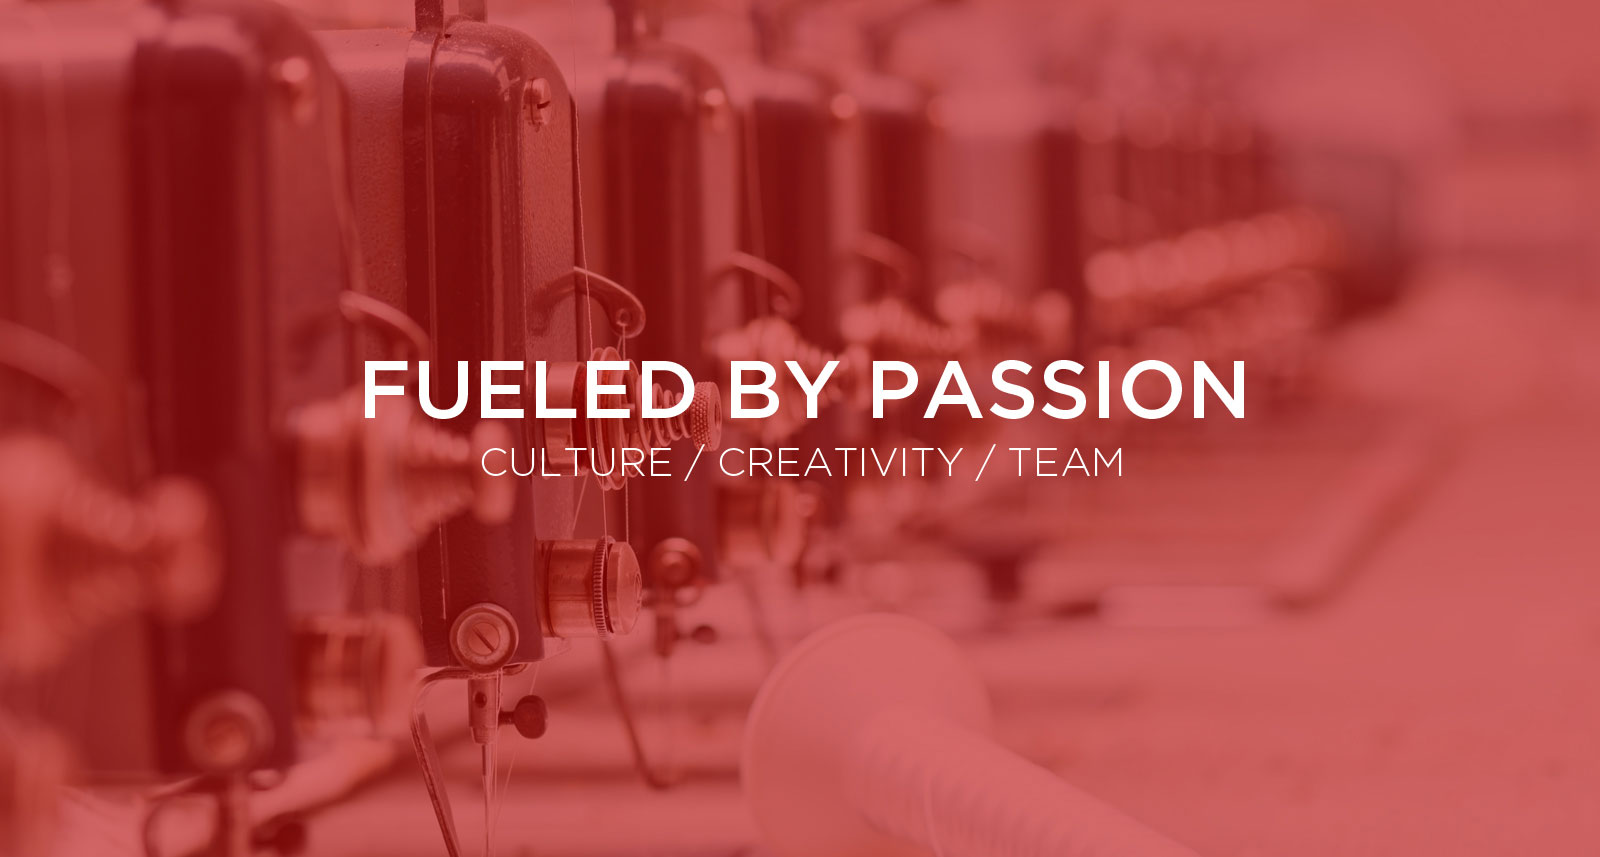
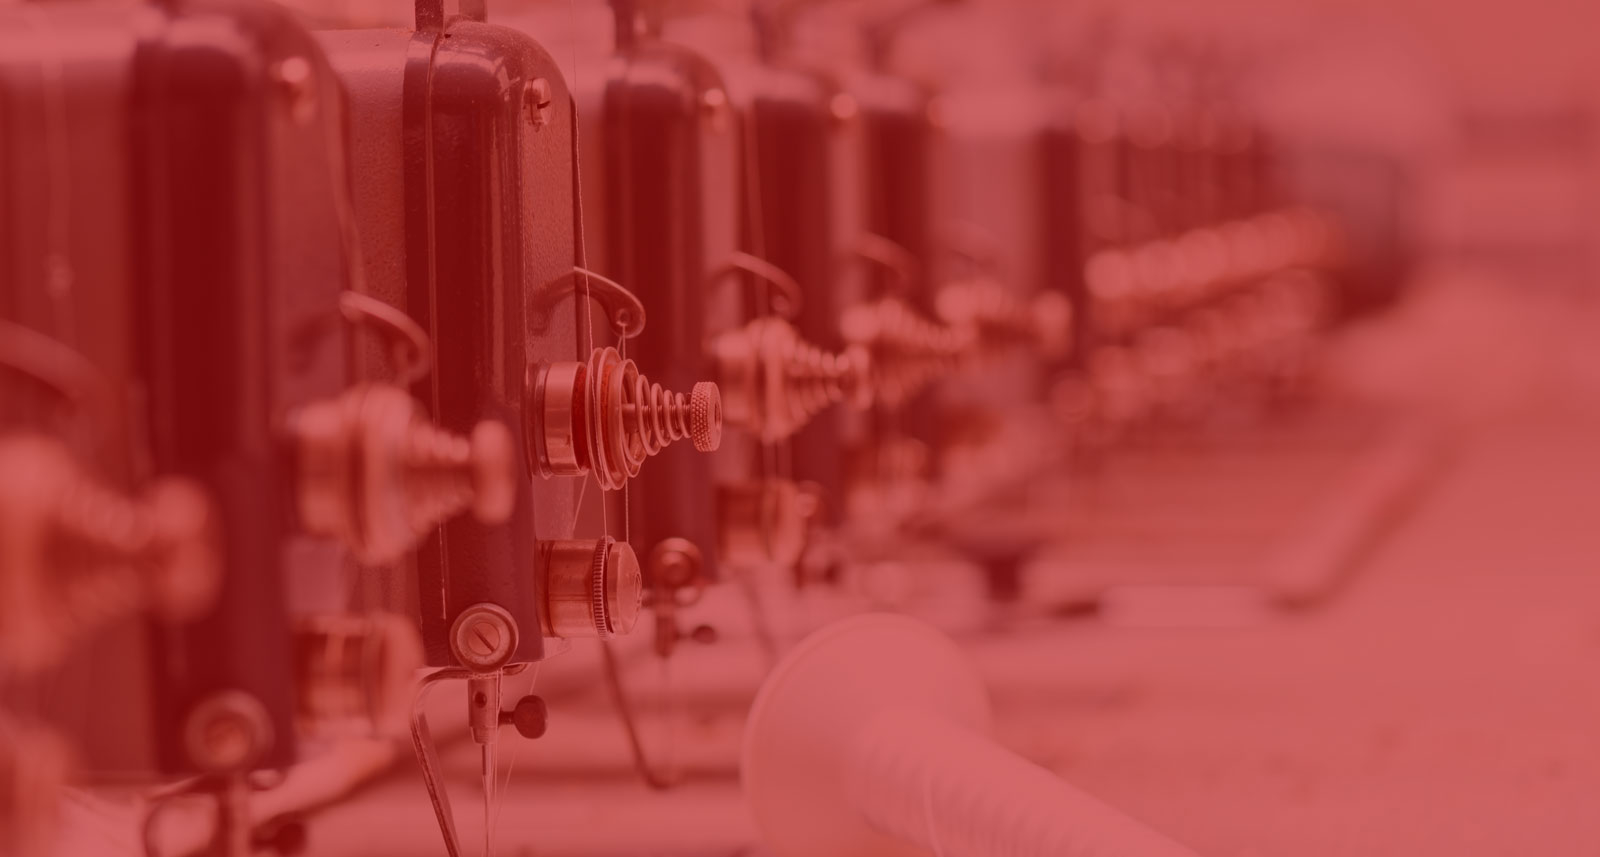
add story page scroll title

Changed region(s): [[0.2188, 0.4247, 0.7812, 0.4854], [0.3125, 0.5158, 0.7188, 0.5764]]

diff --git a/style.css b/style.css
@@ -1295,9 +1295,11 @@ section.module_brand.content_brand {
   background-color: #fff;
   color: #000;
   margin-bottom: 0;
+  position: relative;
+  z-index: 200;
 }
 
-/* line 146, sass/_partials/_parallax.scss */
+/* line 147, sass/_partials/_parallax.scss */
 div.brand-content-wrapper {
   height: 200px;
   max-width: 68em;
@@ -1312,17 +1314,17 @@ div.brand-content-wrapper:after {
   clear: both;
 }
 
-/* line 151, sass/_partials/_parallax.scss */
+/* line 152, sass/_partials/_parallax.scss */
 div.brand-content {
   display: table-cell;
   vertical-align: middle;
 }
-/* line 154, sass/_partials/_parallax.scss */
+/* line 155, sass/_partials/_parallax.scss */
 div.brand-content p {
   color: #666;
 }
 
-/* line 158, sass/_partials/_parallax.scss */
+/* line 159, sass/_partials/_parallax.scss */
 section.module.parallax_brand {
   height: 600px;
   background-position: 50% 50%;
@@ -1334,34 +1336,34 @@ section.module.parallax_brand {
   background-size: cover;
 }
 
-/* line 170, sass/_partials/_parallax.scss */
+/* line 171, sass/_partials/_parallax.scss */
 div.abbot_top p {
   margin-bottom: 0;
   padding: 0.5em 2.0em 0.5em;
 }
-/* line 174, sass/_partials/_parallax.scss */
+/* line 175, sass/_partials/_parallax.scss */
 div.abbot_top p:last-child {
   padding: 0.5em 2.0em 2.0em;
 }
 
 @media all and (min-width: 600px) {
-  /* line 180, sass/_partials/_parallax.scss */
+  /* line 181, sass/_partials/_parallax.scss */
   section.module h2 {
     font-size: 42px;
   }
 
-  /* line 183, sass/_partials/_parallax.scss */
+  /* line 184, sass/_partials/_parallax.scss */
   section.module p {
     font-size: 20px;
   }
 
-  /* line 186, sass/_partials/_parallax.scss */
+  /* line 187, sass/_partials/_parallax.scss */
   section.module.parallax h1 {
     font-size: 96px;
   }
 }
 @media all and (min-width: 960px) {
-  /* line 191, sass/_partials/_parallax.scss */
+  /* line 192, sass/_partials/_parallax.scss */
   section.module.parallax h1 {
     font-size: 160px;
   }
@@ -1427,25 +1429,40 @@ header {
 
 /* line 31, sass/_partials/_common.scss */
 .empty_container.story {
+  position: fixed;
+  z-index: 100;
   width: 100%;
   max-height: 500px;
 }
-/* line 35, sass/_partials/_common.scss */
-.empty_container.story h2 {
-  display: block;
-  position: fixed;
-  width: 100%;
-  text-align: center;
-  color: #999;
+/* line 36, sass/_partials/_common.scss */
+.empty_container.story img {
   margin-top: 10%;
 }
+@media screen and (max-width: 979px) {
+  /* line 36, sass/_partials/_common.scss */
+  .empty_container.story img {
+    margin-top: 20%;
+  }
+}
+@media screen and (max-width: 767px) {
+  /* line 36, sass/_partials/_common.scss */
+  .empty_container.story img {
+    margin-top: 30%;
+  }
+}
+@media screen and (max-width: 468px) {
+  /* line 36, sass/_partials/_common.scss */
+  .empty_container.story img {
+    margin-top: 40%;
+  }
+}
 
-/* line 46, sass/_partials/_common.scss */
+/* line 51, sass/_partials/_common.scss */
 svg#Layer_1 path {
   fill: #666;
 }
 
-/* line 52, sass/_partials/_common.scss */
+/* line 57, sass/_partials/_common.scss */
 svg#brander path {
   fill: #666;
 }

diff --git a/sass/_partials/_common.scss b/sass/_partials/_common.scss
@@ -29,16 +29,21 @@
 }
 
 .empty_container.story{
-	
+	position:fixed;
+	z-index:100;
 	width:100%;
 	max-height:500px;
-	h2{
-		display: block;
-		position:fixed;
-		width:100%;
-		text-align: center;
-		color:#999;
+	img{
 		margin-top: 10%;
+		@include media ($tablet){
+			margin-top:20%;
+		}
+		@include media ($mobile){
+			margin-top:30%;
+		}
+		@include media ($phone){
+			margin-top:40%;
+		}
 	}
 }
 

diff --git a/sass/_partials/_parallax.scss b/sass/_partials/_parallax.scss
@@ -140,7 +140,8 @@ section.module_brand.content_brand {
   background-color: #fff;
   color:#000;
   margin-bottom: 0;
-
+  position: relative;
+  z-index: 200;
 }
 
 div.brand-content-wrapper{

diff --git a/story_page.php b/story_page.php
@@ -11,13 +11,13 @@ get_header(); ?>
 	<main>
 		      
 	      <section class="module parallax_brand parallax-story">
-	        <div class="empty_container">
-	          
+	        <div class="empty_container story">
+	          <img src="<?php bloginfo('template_directory'); ?>/images/fueled_type.png" />
 	        </div>
 	      </section>
 
 	      <section class="module_brand content_brand">
-	        <div class="container abbot_top">
+	        <div class="container">
 	        	<div class="brand-content-wrapper">
 	        		<div class="brand-content">
 			          <p> <b>Boulevard Brands </b>is a premier fashion brand management company with a mission to own, manage and license aspirational, lifestyle apparel brands. Founded by Daniel Guez, a 17-year veteran entrepreneur with a proven record of achievement in the fashion industry, Boulevard Brands’ strategy is to take their lifestyle brands and maximize their potential and consumer reach while remaining true to its DNA roots of creativity and originality. Boulevard Brands leverages the expertise of seasoned professionals ranging from design, product development, branding and licensing. The skill and knowledge of these individuals act as a catalyst to increase value through innovation and expansion of the company’s primary business model.</p>
@@ -27,7 +27,7 @@ get_header(); ?>
 	      </section>
 
 	      <section class="module_brand content_brand">
-			<div class="container abbot_top">
+			<div class="container">
 				<img src="<?php bloginfo('template_directory'); ?>/images/storypage_bottom.jpg" />
 			</div>
 		</section>

diff --git a/dylan_george_page.php b/dylan_george_page.php
@@ -14,7 +14,7 @@ get_header(); ?>
 				<img src="<?php bloginfo('template_directory'); ?>/images/brand/dg_static.jpg" /></a>
 				<div class="brand-content-wrapper">
 					<div class="brand-content">
-						<p>Inspired by the culture of an active lifestyle and the challenge to stay stylish and fit, Caelum blurs the lines that separate daily life, health, style and fitness. Every piece in the collection has a cool, edgey and modern look that can seamlessly be worn at the studio or gym, on the go, and dressed up for a night out.</p>
+						<!-- <p>Inspired by the culture of an active lifestyle and the challenge to stay stylish and fit, Caelum blurs the lines that separate daily life, health, style and fitness. Every piece in the collection has a cool, edgey and modern look that can seamlessly be worn at the studio or gym, on the go, and dressed up for a night out.</p> -->
 	         	 	</div>
 	         	 </div>
 			</div>
@@ -30,7 +30,7 @@ get_header(); ?>
 	        <div class="container abbot_top">
 	        	<div class="brand-content-wrapper">
 	        		<div class="brand-content">
-			          <p> Technical activewear fabrics, silky soft knits, and explosions of color, embody the spirit of an energetic lifestyle brand that will inspire everyone to live their healthiest life.</p>
+			          <!-- <p> Technical activewear fabrics, silky soft knits, and explosions of color, embody the spirit of an energetic lifestyle brand that will inspire everyone to live their healthiest life.</p> -->
 	         		</div>
 	          </div>
 	          <div class="brand-info-container">

diff --git a/brand-overview.php b/brand-overview.php
@@ -68,12 +68,12 @@ get_header(); ?>
 		  </div>
 		</div>	
 
-<!-- 		<div class="hover-tile-outer dg_overview">
-			<a href="<?//php echo get_page_link( get_page_by_title( "dylangeorge" )->ID ); ?>"></a>
+		<div class="hover-tile-outer dg_overview">
+			<a href="<?php echo get_page_link( get_page_by_title( "dylangeorge" )->ID ); ?>"></a>
 		  <div class="hover-tile-container">
 		    <div class="hover-tile hover-tile-visible">
 		    	<div class="hover-logo">
-			      <img src="<?//php bloginfo('template_directory'); ?>/images/brand/dg_brand_scroll.svg" class="" />
+			      <img src="<?php bloginfo('template_directory'); ?>/images/brand/dg_brand_scroll.svg" class="" />
 			    </div>
 		    </div>
 		    <div class="hover-tile hover-tile-hidden">
@@ -81,7 +81,7 @@ get_header(); ?>
 		      <p>Lorem ipsum dolor sit amet, consectetur adipisicing elit. Unde, hic, dolore, labore,provident eligendi fugiat ad exercitationem.</p>
 		    </div>
 		  </div>
-		</div> -->
+		</div>
 
 		<div class="hover-tile-outer blvd_overview">
 			<a href="<?php bloginfo('url');?>"></a>

diff --git a/footer.php b/footer.php
@@ -23,22 +23,7 @@
 			    </ul>
 
 			    <div class="footer-secondary-links">
-			      <ul>
-			        <li><a href="javascript:void(0)">Terms and Conditions</a></li>
-			        <li><a href="javascript:void(0)">Privacy Policy</a></li>
-			      </ul>
-
-			      <ul class="footer-social">
-			        <li><a href="javascript:void(0)">
-			          <img src="https://raw.githubusercontent.com/thoughtbot/refills/master/source/images/facebook-logo-circle.png" alt="">
-			          </a></li>
-			        <li><a href="javascript:void(0)">
-			          <img src="https://raw.githubusercontent.com/thoughtbot/refills/master/source/images/twitter-logo-circle.png" alt="">
-			        </a></li>
-			        <li><a href="javascript:void(0)">
-			          <img src="https://raw.githubusercontent.com/thoughtbot/refills/master/source/images/youtube-logo-circle.png" alt="">
-			        </a></li>
-			      </ul>
+			      
 			    </div>
 			</div>
 		</footer><!-- #colophon -->

diff --git a/index.php b/index.php
@@ -34,12 +34,12 @@ get_header(); ?>
 
       
 
-   <!--    <section class="module parallax parallax-5">
+      <section class="module parallax parallax-5">
         <div class="home_container">
-          <a href="<?//php echo get_page_link( get_page_by_title( "dylangeorge" )->ID ); ?>"><img src="<?//php bloginfo('template_directory'); ?>/images/brand/dg_brand_scroll.svg" class="" id="drop-shadow"/></a>
+          <a href="<?php echo get_page_link( get_page_by_title( "dylangeorge" )->ID ); ?>"><img src="<?php bloginfo('template_directory'); ?>/images/brand/dg_brand_scroll.svg" class="" id="drop-shadow"/></a>
         </div>
       </section>
- -->
+ 
 
       <section class="module parallax parallax-4">
         <div class="home_container">
